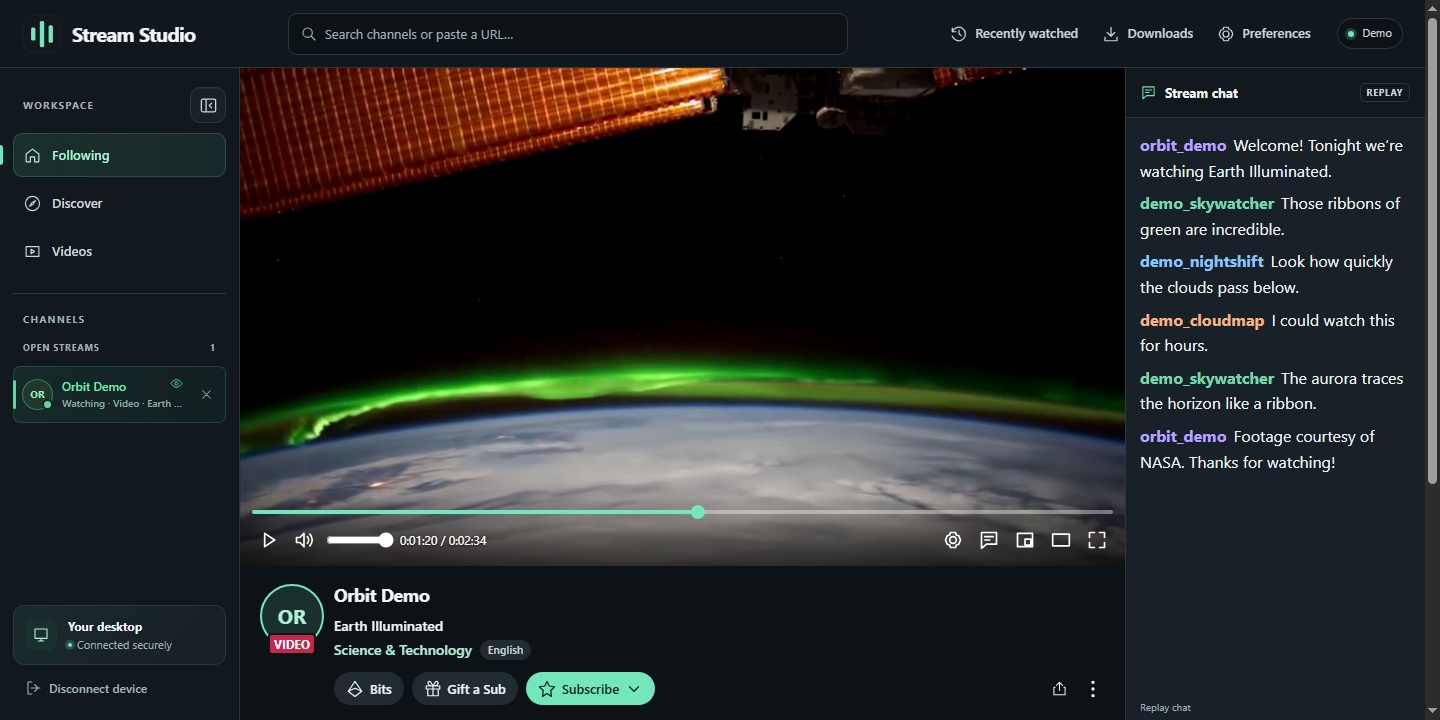
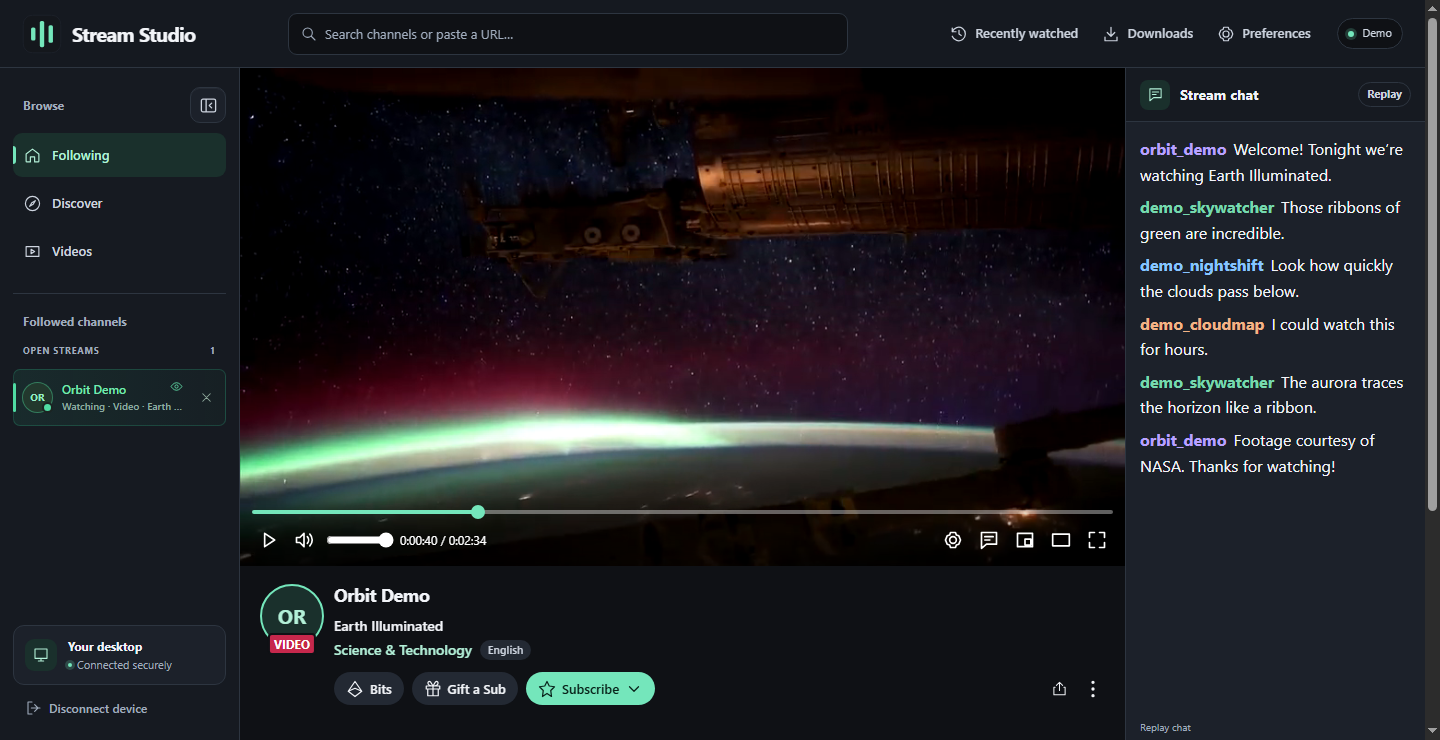
Refresh Stream Studio screenshots and show Following

diff --git a/README.md b/README.md
@@ -33,6 +33,12 @@ Follow your favorite channels, watch up to **16 streams at once**, and pick up p
 
 ![Stream Studio for Windows showing the Discover page with Twitch category artwork and language filters](docs/assets/screenshots/windows-app.png)
 
+### Following on Windows
+
+![Stream Studio for Windows with the Following tab selected and an empty list of live and offline channels](docs/assets/screenshots/windows-following.png)
+
+The Following screenshot uses an empty demo profile.
+
 ### Web UI
 
 ![Stream Studio’s web player showing an aurora from orbit, playback controls, and docked replay chat](docs/assets/screenshots/web-ui.png)
